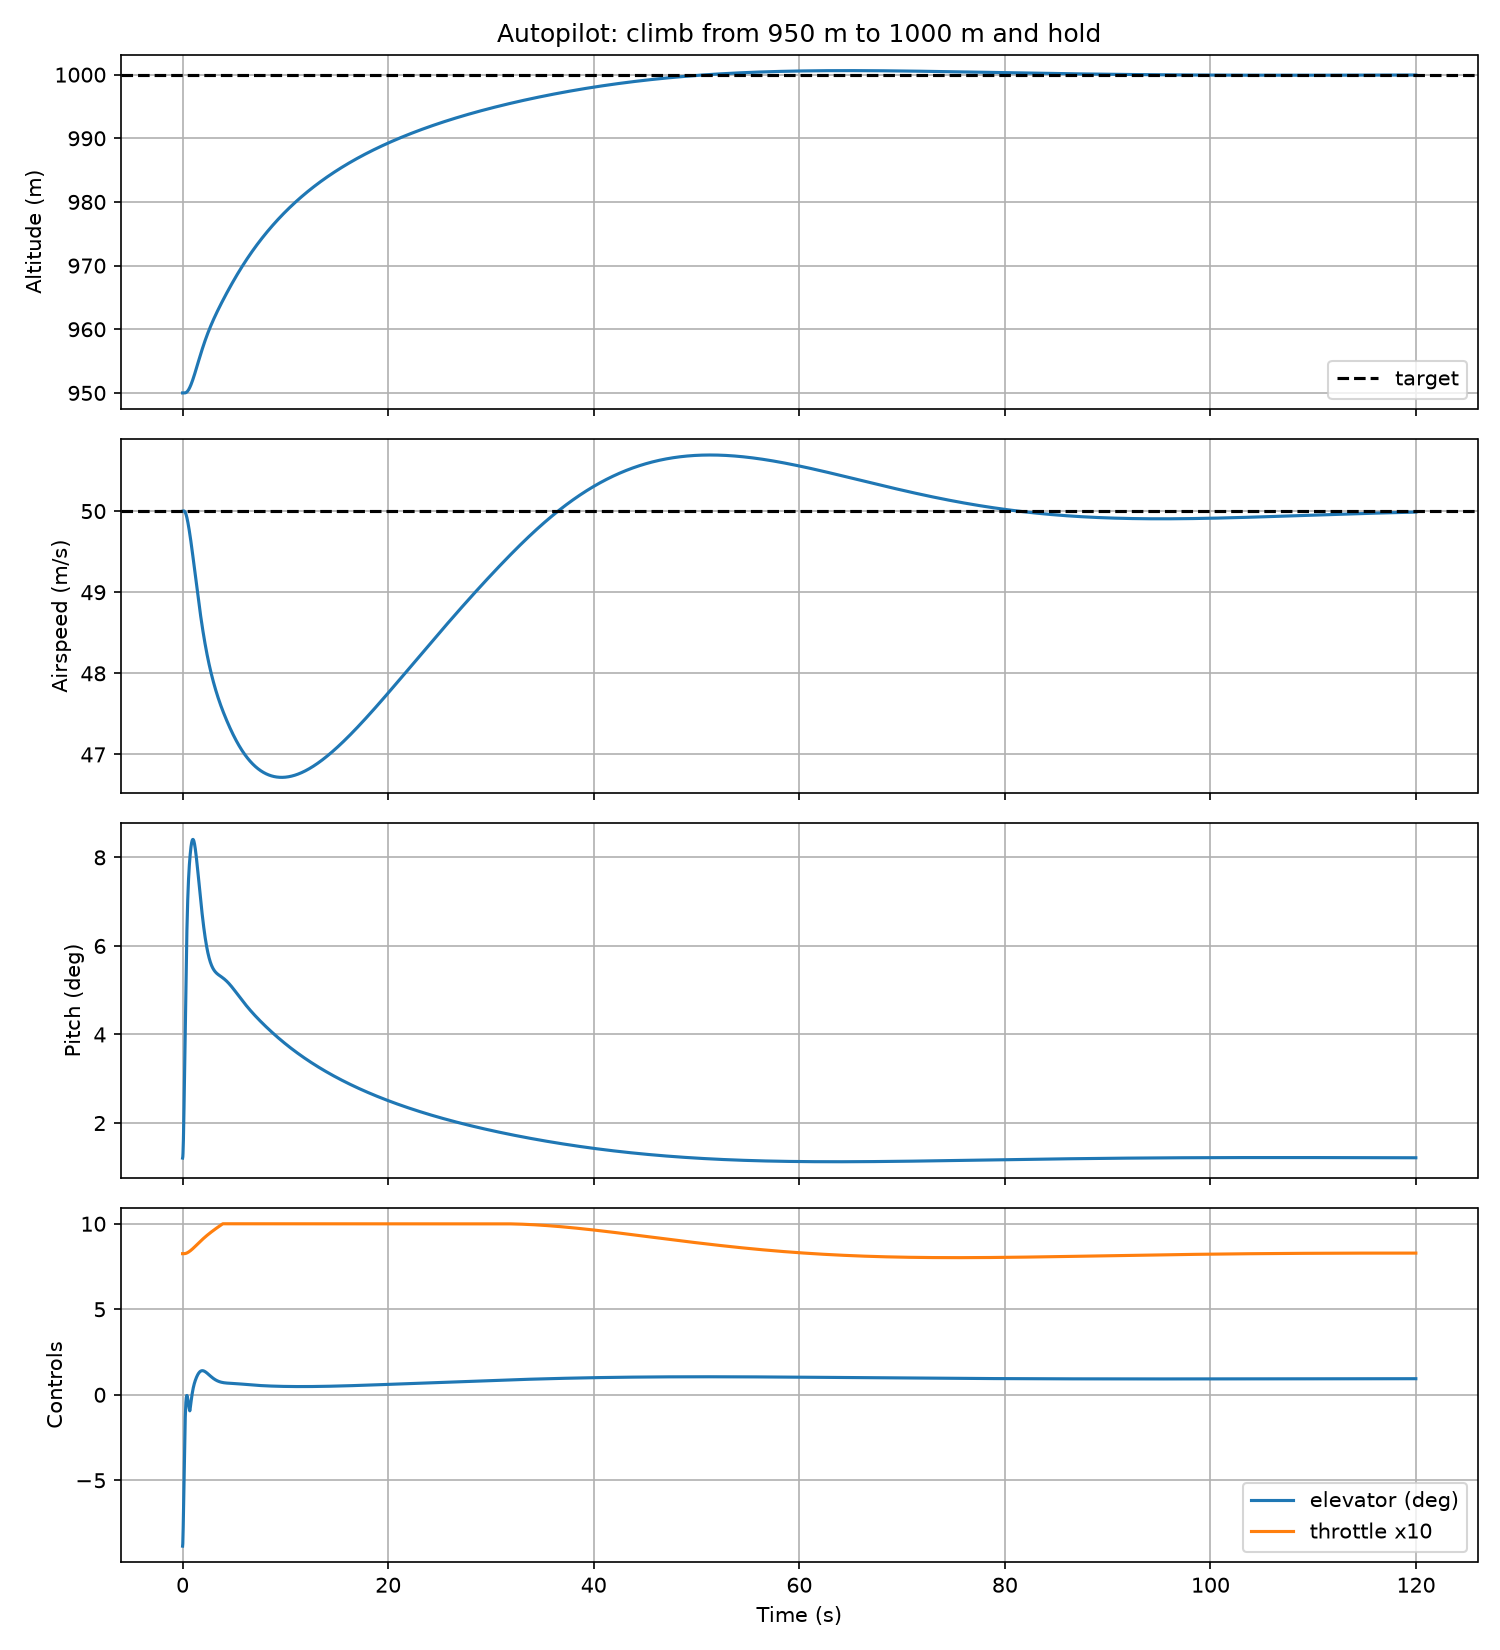
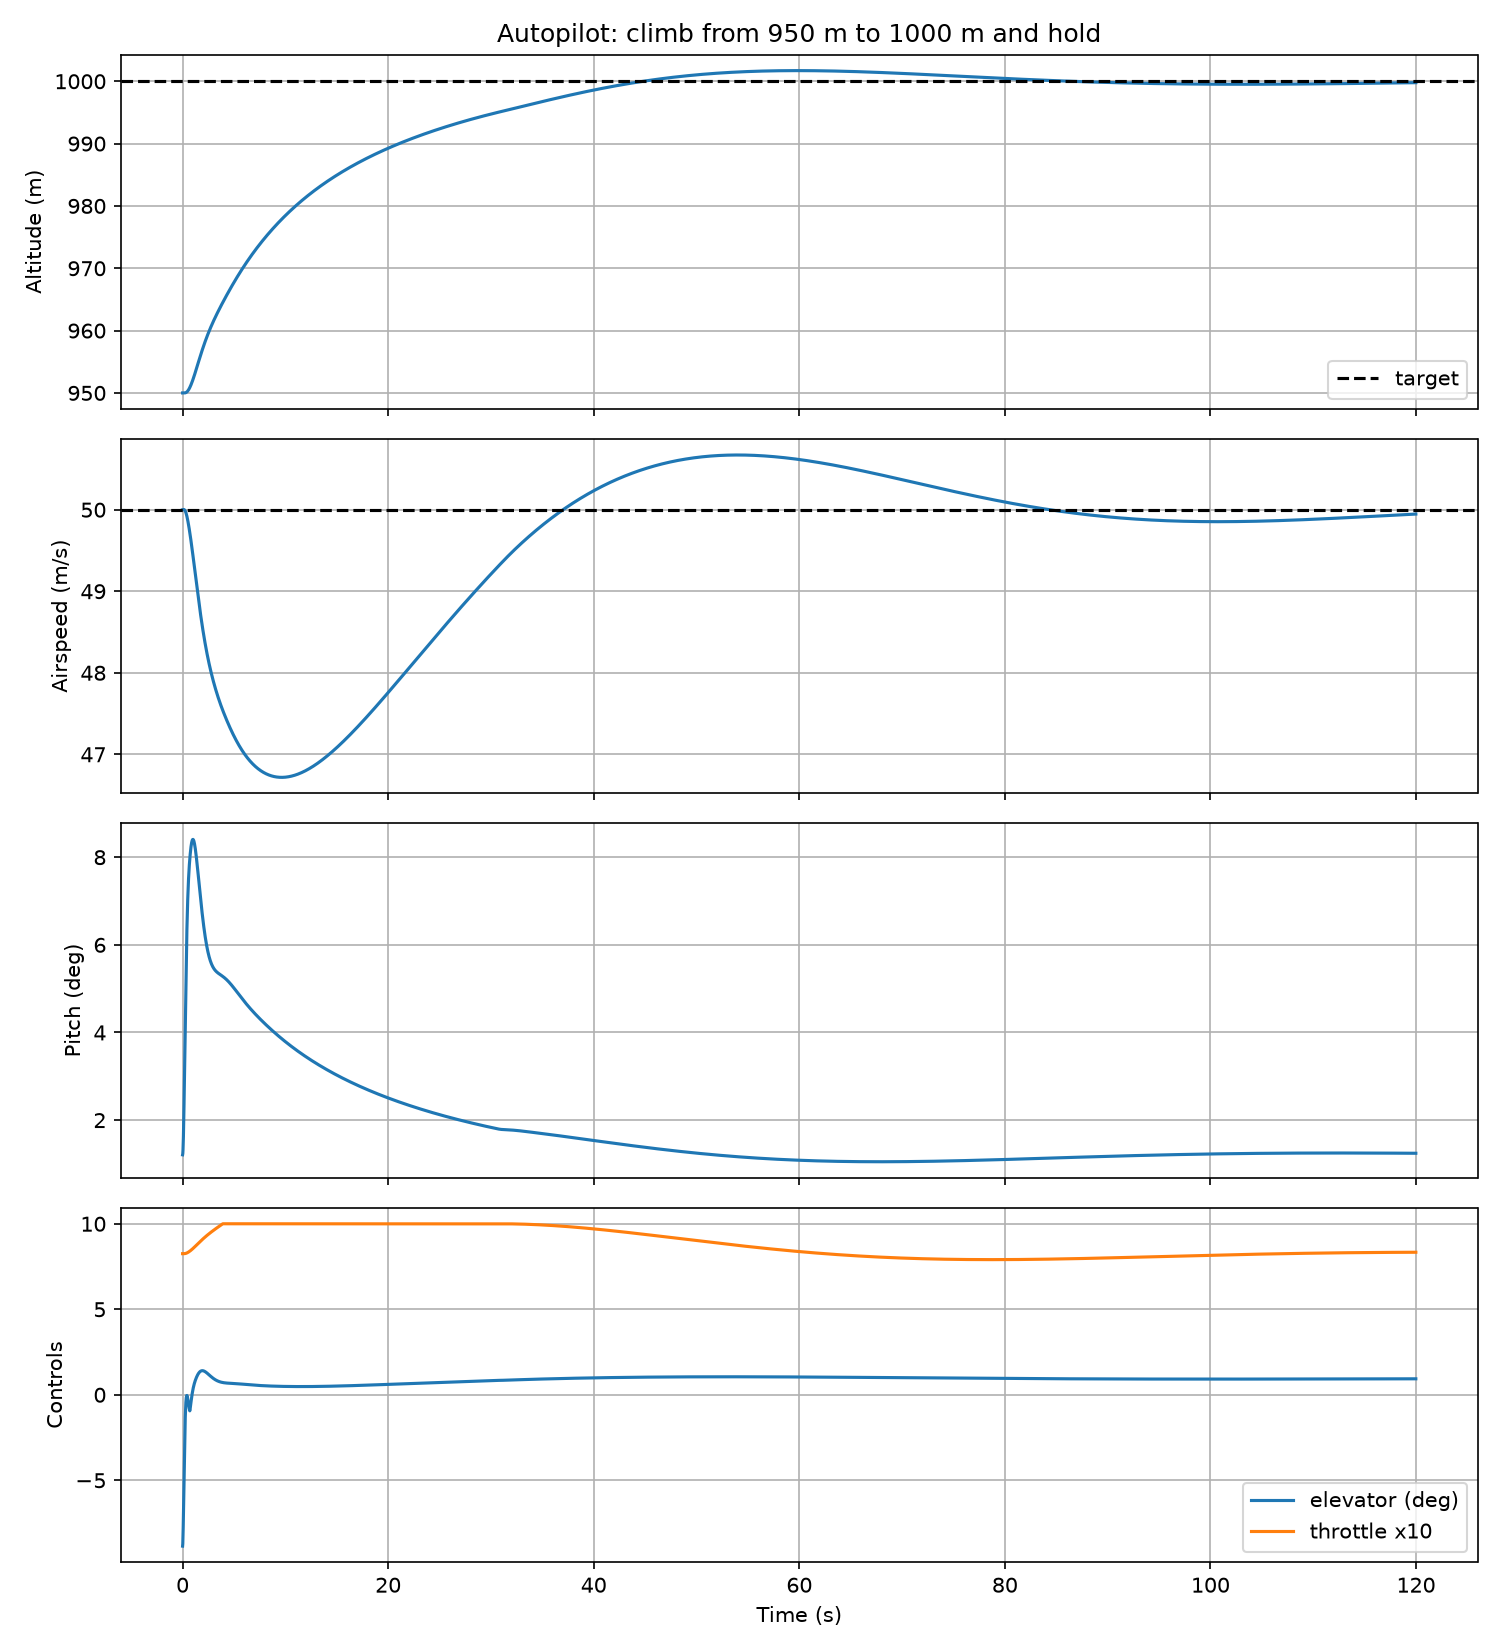
Add integral separation to PID; restores wind rejection without climb overshoot

diff --git a/src/uavsim/autopilot.py b/src/uavsim/autopilot.py
@@ -32,7 +32,7 @@ class Autopilot:
 
     def __post_init__(self) -> None:
         self.alt_pid = PID(
-            kp=0.004, ki=0.0, kd=0.02,
+            kp=0.004, ki=0.0002, kd=0.02, i_zone=5.0,
             out_min=-MAX_PITCH_CMD, out_max=MAX_PITCH_CMD, tau_d=0.5,
         )
         self.pitch_pid = PID(
@@ -49,10 +49,10 @@ class Autopilot:
         self.pitch_pid.reset()
         self.speed_pid.reset()
 
-    def update(self, y: np.ndarray, dt: float) -> Controls:
+    def update(self, y: np.ndarray, dt: float, airspeed: float | None = None) -> Controls:
         """Compute controls from the 13-element state for one control step."""
         altitude = -y[2]
-        airspeed = float(np.linalg.norm(y[3:6]))
+        airspeed = float(np.linalg.norm(y[3:6])) if airspeed is None else float(airspeed)
         pitch = quat.to_euler(y[6:10])[1]
 
         pitch_cmd = self.trim.pitch + self.alt_pid.update(self.target_altitude, altitude, dt)
@@ -65,4 +65,7 @@ class Autopilot:
         throttle = float(np.clip(throttle, 0.0, 1.0))
 
         return Controls(elevator=float(elevator), throttle=throttle)
+
+
+
 

diff --git a/src/uavsim/pid.py b/src/uavsim/pid.py
@@ -20,6 +20,7 @@ class PID:
     out_min: float = float("-inf")
     out_max: float = float("inf")
     tau_d: float = 0.05          # derivative filter time constant (s)
+    i_zone: float = float("inf")  # integrate only while |error| < i_zone
 
     _integral: float = field(default=0.0, init=False, repr=False)
     _d_filtered: float = field(default=0.0, init=False, repr=False)
@@ -52,7 +53,7 @@ class PID:
         d_term = self.kd * self._d_filtered
 
         # Tentative output with the integral advanced by this step
-        i_candidate = self._integral + self.ki * error * dt
+        i_candidate = self._integral + (self.ki * error * dt if abs(error) < self.i_zone else 0.0)
         unsat = p_term + i_candidate + d_term
         out = min(max(unsat, self.out_min), self.out_max)
 
@@ -63,3 +64,4 @@ class PID:
             out = min(max(p_term + self._integral + d_term, self.out_min), self.out_max)
 
         return out
+

diff --git a/examples/wind_test.py b/examples/wind_test.py
@@ -21,7 +21,7 @@ T_END = 120.0
 T_WIND = 10.0
 
 CASES = {
-    "downdraft 2 m/s": np.array([0.0, 0.0, 2.0]),
+    "downdraft 0.5 m/s": np.array([0.0, 0.0, 0.5]),
     "north wind 5 m/s": np.array([5.0, 0.0, 0.0]),
 }
 
@@ -34,7 +34,7 @@ def run(controller, trim, wind_vec):
     alt_err = []
     for i in range(int(T_END / DT)):
         t = i * DT
-        c = controller.update(y, DT)
+        c = controller.update(y, DT, float(np.linalg.norm(y[3:6] - quat.to_dcm(y[6:10]).T @ (wind_vec if t >= T_WIND else np.zeros(3)))))
         f = make_dynamics(constant_controls(c), wind_model=wind)
         alt_err.append(-y[2] - TARGET_ALT)
         y = post_step(rk4_step(f, t, y, DT))
@@ -66,3 +66,5 @@ def main():
 
 if __name__ == "__main__":
     main()
+
+

diff --git a/examples/lqi_vs_pid.py b/examples/lqi_vs_pid.py
@@ -41,9 +41,9 @@ class LQIController:
         self.x_trim = trim.state()
         self.xi_v = 0.0
 
-    def update(self, y, dt):
+    def update(self, y, dt, airspeed=None):
         altitude = -y[2]
-        airspeed = float(np.linalg.norm(y[3:6]))
+        airspeed = float(np.linalg.norm(y[3:6])) if airspeed is None else float(airspeed)
         theta = quat.to_euler(y[6:10])[1]
 
         e_h = float(np.clip(TARGET_ALT - altitude, -E_H_MAX, E_H_MAX))
@@ -132,6 +132,7 @@ def main():
 
 if __name__ == "__main__":
     main()
+
 
 
 
